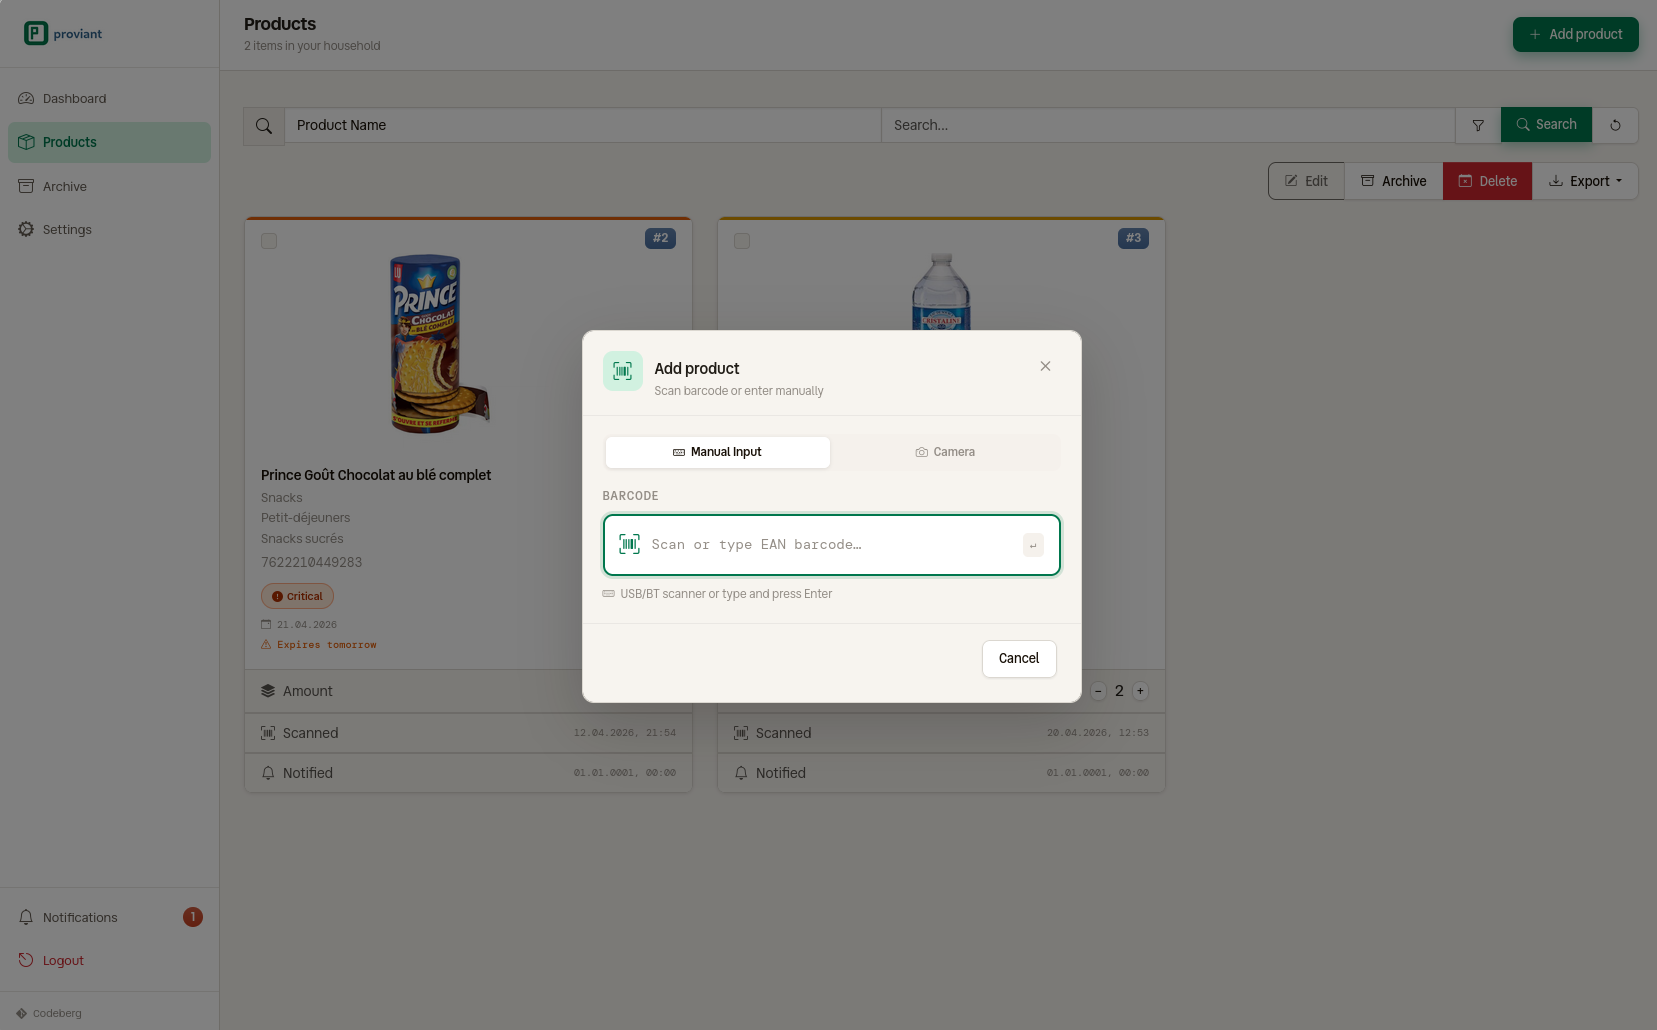
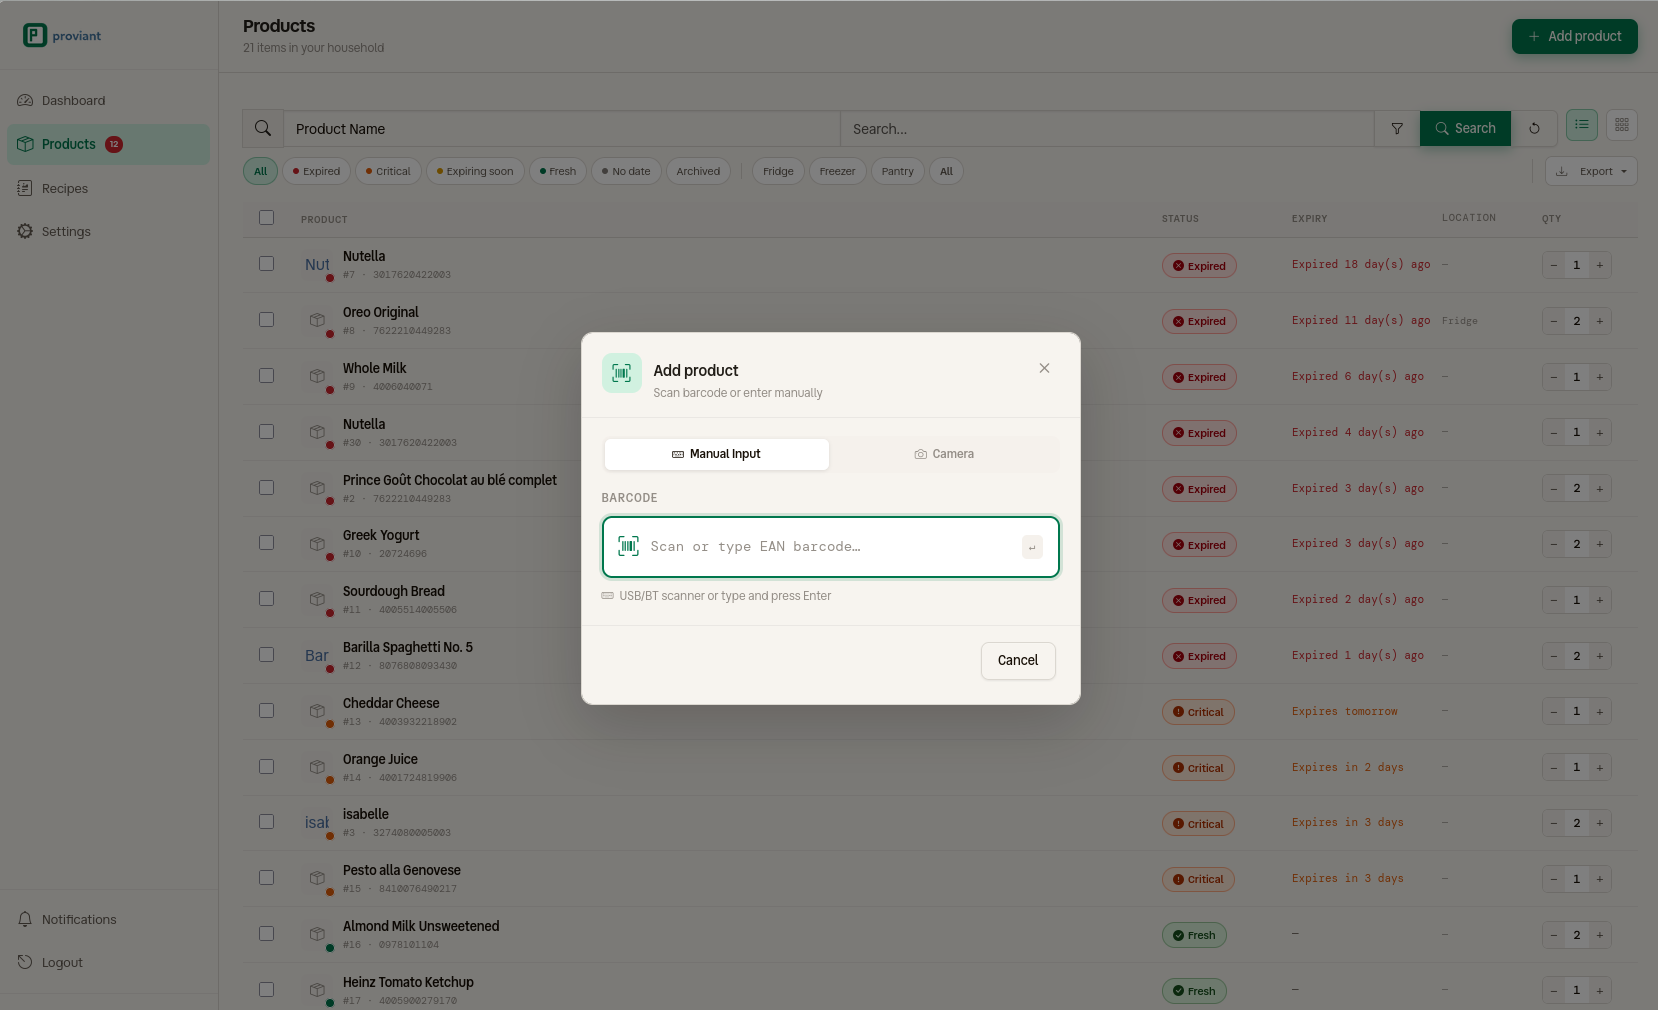
docs: update documentation

diff --git a/README.md b/README.md
@@ -1,4 +1,4 @@
-![Proviant](./res/icons/proviant_hero.png){width=100%}
+![Proviant](./res/icons/proviant_hero.png)
 
 ![Golang version](https://img.shields.io/badge/Go-1.25.9-green)
 ![CI status](https://codeberg.org/isotop7/proviant/badges/workflows/ci.yml/badge.svg)
@@ -14,6 +14,16 @@
 
 📚 **proviant** is a simple and intuitive application to track your bought products and their expiration date to prevent waste of food 🥗
 
+## Preview
+
+**Dashboard** — metric tiles, waste rate donut, category breakdown and expiry trend charts
+
+![Dashboard](./screenshots/portal.png)
+
+**Products** — search, filter and manage your products
+
+![Products](./screenshots/search.png)
+
 ## Features
 
 - 📝 Track and log products with expiration dates.
@@ -28,6 +38,15 @@
 - 🌙 Dark theme.
 - 📥 **Export** — download products and archive data as CSV or JSON.
 - 🍽 **Recipe suggestions** — get recipe ideas based on your products (TheMealDB / Spoonacular).
+
+## Quick Start
+
+```bash
+curl -o docker-compose.yml https://codeberg.org/isotop7/proviant/raw/branch/main/docker-compose.sqlite.yaml
+docker compose up -d
+```
+
+Then open http://localhost:5114
 
 ## Technologies and Tools
 
@@ -56,86 +75,126 @@
 - [External MariaDB database](./docker-compose.mariadb.yaml)
 - [Internal SQLite database](./docker-compose.sqlite.yaml)
 
-The app can be configured with environment variables:
+### Configuration
+
+Configuration is set via environment variables. The complete list of available options and their default values is below. Template configuration files are available in `src/config.yaml.sqlite.tmpl` and `src/config.yaml.mariadb.tmpl`.
+
+#### Server
+
+| Environment Variable | Default | Description |
+|---|---|---|
+| `PROVIANT_SERVER_PORT` | `5114` | Listening port |
+| `PROVIANT_SERVER_BASEURL` | `https://proviant.local.de` | URL of Proviant with protocol (used in emails, notifications) |
+| `PROVIANT_SERVER_AUTHENTICATION_TOKENPASSWORD` | `secret key` | Secret used for JSON Web Tokens |
+| `PROVIANT_SERVER_AUTHENTICATION_TOKENLIFETIME` | `8` | Lifetime of JSON Web Tokens in hours |
+| `PROVIANT_SERVER_AUTHENTICATION_MAXLOGINATTEMPTS` | `3` | Maximum failed login attempts before lockout |
+| `PROVIANT_SERVER_AUTHENTICATION_LOCKOUTDURATIONMINS` | `10` | Lockout duration in minutes after max failed attempts |
+| `PROVIANT_SERVER_AUTHENTICATION_PASSWORDMINLENGTH` | `12` | Minimum password length |
+| `PROVIANT_SERVER_AUTHENTICATION_PASSWORDREQUIREUPPERCASE` | `false` | Require at least one uppercase letter |
+| `PROVIANT_SERVER_AUTHENTICATION_PASSWORDREQUIREDIGIT` | `false` | Require at least one digit |
+| `PROVIANT_SERVER_AUTHENTICATION_PASSWORDREQUIRESPECIAL` | `false` | Require at least one special character |
+| `PROVIANT_SERVER_AUTHENTICATION_PASSWORDCHECKBREACHED` | `true` | Check passwords against HaveIBeenPwned API |
+| `PROVIANT_SERVER_CORS_ALLOWALLORIGINS` | `false` | Allow all origins (`true`) or use `allowedOrigins` list (`false`) |
+| `PROVIANT_SERVER_CORS_ALLOWEDORIGINS` | `http://localhost,http://myproviant.instance` | Comma-separated list of allowed origins when `allowAllOrigins` is `false` |
+| `PROVIANT_SERVER_SECURITYHEADERS_CONTENT_SECURITY_POLICY` | `default-src 'self'; script-src 'self' 'unsafe-inline'; style-src 'self' 'unsafe-inline'; img-src 'self' data: https:;` | Content Security Policy header |
+
+#### Database
+
+| Environment Variable | Default | Description |
+|---|---|---|
+| `PROVIANT_DATABASE_ENGINE` | `sqlite` | Database engine (`sqlite` or `mariadb`) |
+| **SQLite** |||
+| `PROVIANT_DATABASE_SQLITE_FILEPATH` | `data/proviant.db` | Path to SQLite database file (folder must exist) |
+| **MariaDB** |||
+| `PROVIANT_DATABASE_MARIADB_HOST` | `127.0.0.1` | MariaDB server IP or hostname |
+| `PROVIANT_DATABASE_MARIADB_PORT` | `3306` | MariaDB server port |
+| `PROVIANT_DATABASE_MARIADB_NAME` | `proviant` | Database name |
+| `PROVIANT_DATABASE_MARIADB_USER` | `root` (SQLite: `proviant`) | Database user |
+| `PROVIANT_DATABASE_MARIADB_PASSWORD` | `password` | Database user password |
+
+#### Logging
+
+| Environment Variable | Default | Description |
+|---|---|---|
+| `PROVIANT_LOGGING_ENABLED` | `true` | Enable file logging |
+| `PROVIANT_LOGGING_FILE` | `proviant.log` | Path to log file |
+
+#### Notifications
+
+| Environment Variable | Default | Description |
+|---|---|---|
+| `PROVIANT_NOTIFICATION_ENABLED` | `true` | Enable notifications |
+| `PROVIANT_NOTIFICATION_INTERVAL` | `12` | Interval in hours when notifications should be sent |
+| `PROVIANT_NOTIFICATION_SMTP_HOST` | `127.0.0.1` | SMTP server host or IP address |
+| `PROVIANT_NOTIFICATION_SMTP_PORT` | `25` | SMTP server port |
+| `PROVIANT_NOTIFICATION_SMTP_SSL` | `false` | Enable/disable SSL for SMTP |
+| `PROVIANT_NOTIFICATION_SMTP_USER` | `user` | SMTP username |
+| `PROVIANT_NOTIFICATION_SMTP_PASSWORD` | `password` | SMTP password |
+| `PROVIANT_NOTIFICATION_SMTP_FROMADDRESS` | `sender@local.net` | Sender email address for notifications |
+| `PROVIANT_NOTIFICATION_NTFY_URL` | `https://ntfy.sh` | Ntfy server URL |
+| `PROVIANT_NOTIFICATION_NTFY_TOPIC` | `default_topic` | Default Ntfy topic/channel |
+| `PROVIANT_NOTIFICATION_NTFY_TIMEOUT` | `60` | Ntfy message timeout in seconds |
+| `PROVIANT_NOTIFICATION_TELEGRAM_TIMEOUT` | `10` | Telegram API request timeout in seconds |
+| `PROVIANT_NOTIFICATION_MONTHLYWASTEREPORT_DAY` | `1` | Day of month to send monthly waste report (1–28) |
+| `PROVIANT_NOTIFICATION_MONTHLYWASTEREPORT_HOUR` | `8` | UTC hour to send monthly waste report (0–23) |
+
+#### OpenFoodFacts
+
+| Environment Variable | Default | Description |
+|---|---|---|
+| `PROVIANT_OPENFOODFACTS_URL` | `https://world.openfoodfacts.org/api/v2/product` | OpenFoodFacts API URL |
+| `PROVIANT_OPENFOODFACTS_TIMEOUT` | `5` | API request timeout in seconds |
+| `PROVIANT_OPENFOODFACTS_CACHEENABLED` | `true` | Cache API responses in database for offline use |
+| `PROVIANT_OPENFOODFACTS_IMAGECACHEENABLED` | `false` | Cache product images locally |
+| `PROVIANT_OPENFOODFACTS_IMAGECACHEPATH` | `data/images` | Path to image cache directory |
+
+#### OCR (expiry date scanning)
+
+| Environment Variable | Default | Description |
+|---|---|---|
+| `PROVIANT_OCR_ENABLED` | `true` | Enable OCR expiry date scanning |
+| `PROVIANT_OCR_PROVIDER` | `tesseract` | OCR provider: `tesseract` (local), `google`, `openai` |
+| `PROVIANT_OCR_API_KEY` | *(empty)* | API key for cloud providers (Google/OpenAI) |
+| `PROVIANT_OCR_ENDPOINT` | *(empty)* | Custom OCR server endpoint (for local Tesseract HTTP) |
+| `PROVIANT_OCR_TIMEOUT` | `10` | OCR request timeout in seconds |
+| `PROVIANT_OCR_LANGUAGES` | `deu+eng` | Tesseract language codes (e.g., `deu+eng`) |
+
+#### Recipe suggestions
+
+| Environment Variable | Default | Description |
+|---|---|---|
+| `PROVIANT_RECIPE_API_PROVIDER` | `themealdb` | Recipe provider: `themealdb` or `spoonacular` |
+| `PROVIANT_RECIPE_API_URL` | `https://www.themealdb.com/api/json/v1/1` | Recipe API endpoint (base URL, `/search.php` is appended automatically) |
+| `PROVIANT_RECIPE_API_API_KEY` | *(empty)* | API key (required for Spoonacular) |
+| `PROVIANT_RECIPE_API_TIMEOUT` | `10` | Recipe API request timeout in seconds |
+| `PROVIANT_RECIPE_API_CACHEENABLED` | `true` | Cache recipe responses |
+| `PROVIANT_RECIPE_API_CACHETTL` | `24` | Cache TTL in hours |
+
+#### Expiry thresholds
+
+| Environment Variable | Default | Description |
+|---|---|---|
+| `PROVIANT_EXPIRY_CRITICAL_THRESHOLD_DAYS` | `3` | Days before expiry to mark as critical |
+| `PROVIANT_EXPIRY_SOON_THRESHOLD_DAYS` | `7` | Days before expiry to mark as expiring soon |
+
+Additionally, `GIN_MODE` can be set to `debug` to enable Gin's debug mode.
+
+## Upgrade / Migration
+
+### Docker
+
+Pull the latest image and restart:
 
 ```bash
-# Server configuration
-PROVIANT_SERVER_PORT=5050                                                      # Listening port of server
-PROVIANT_SERVER_BASEURL="https://proviant.local.de"                           # URL of Proviant with protocol
-PROVIANT_SERVER_AUTHENTICATION_TOKENPASSWORD="secret key"                       # Secret used for JSON Web Tokens
-PROVIANT_SERVER_AUTHENTICATION_TOKENLIFETIME=8                                # Lifetime of JSON Web Tokens in hours
-PROVIANT_SERVER_AUTHENTICATION_MAXLOGINATTEMPTS=3                             # Maximum failed login attempts before lockout
-PROVIANT_SERVER_AUTHENTICATION_LOCKOUTDURATIONMINS=10                        # Lockout duration in minutes after max failed attempts
-PROVIANT_SERVER_AUTHENTICATION_PASSWORDMINLENGTH=12                           # Minimum password length
-PROVIANT_SERVER_AUTHENTICATION_PASSWORDREQUIREUPPERCASE=false                 # Require at least one uppercase letter
-PROVIANT_SERVER_AUTHENTICATION_PASSWORDREQUIREDIGIT=false                     # Require at least one digit
-PROVIANT_SERVER_AUTHENTICATION_PASSWORDREQUIRESPECIAL=false                   # Require at least one special character
-PROVIANT_SERVER_AUTHENTICATION_PASSWORDCHECKBREACHED=true                      # Check passwords against HaveIBeenPwned API
-PROVIANT_SERVER_CORS_ALLOWALLORIGINS=true                                     # Allow all origins (true) or use allowedOrigins list (false)
-PROVIANT_SERVER_CORS_ALLOWEDORIGINS="http://localhost https://myapi.com"      # List of allowed origins when allowAllOrigins is false
-PROVIANT_SERVER_SECURITYHEADERS_CONTENT_SECURITY_POLICY="default-src 'self'"   # Content Security Policy header
-
-# Database configuration
-## SQLite
-PROVIANT_DATABASE_ENGINE="sqlite"                                            # Database engine (sqlite or mariadb)
-PROVIANT_DATABASE_SQLITE_FILEPATH="data/proviant.db"                         # Path to SQLite database file (folder must exist)
-## MariaDB
-PROVIANT_DATABASE_ENGINE="mariadb"                                          # Database engine (sqlite or mariadb)
-PROVIANT_DATABASE_MARIADB_HOST="127.0.0.1"                                  # MariaDB server IP or hostname
-PROVIANT_DATABASE_MARIADB_PORT=3306                                          # MariaDB server port
-PROVIANT_DATABASE_MARIADB_NAME="proviant"                                    # Database name
-PROVIANT_DATABASE_MARIADB_USER="proviant"                                    # Database user
-PROVIANT_DATABASE_MARIADB_PASSWORD="password"                                # Database user password
-
-# Logging configuration
-PROVIANT_LOGGING_ENABLED=true                                                # Enable file logging
-PROVIANT_LOGGING_FILE="proviant.log"                                         # Path to log file
-
-# Notification configuration
-PROVIANT_NOTIFICATION_ENABLED=true                                            # Enable notifications
-PROVIANT_NOTIFICATION_INTERVAL=12                                            # Interval in hours when notifications should be sent
-PROVIANT_NOTIFICATION_SMTP_HOST="127.0.0.1"                                  # SMTP server host or IP address
-PROVIANT_NOTIFICATION_SMTP_PORT=25                                           # SMTP server port
-PROVIANT_NOTIFICATION_SMTP_SSL=false                                         # Enable/disable SSL for SMTP
-PROVIANT_NOTIFICATION_SMTP_USER="user"                                       # SMTP username
-PROVIANT_NOTIFICATION_SMTP_PASSWORD="password"                                # SMTP password
-PROVIANT_NOTIFICATION_SMTP_FROMADDRESS="sender@local.net"                     # Sender email address for notifications
-PROVIANT_NOTIFICATION_NTFY_URL="https://ntfy.sh"                             # Ntfy server URL
-PROVIANT_NOTIFICATION_NTFY_TOPIC="default_topic"                             # Default Ntfy topic/channel
-PROVIANT_NOTIFICATION_NTFY_TIMEOUT=60                                         # Ntfy message timeout in seconds
-PROVIANT_NOTIFICATION_TELEGRAM_TIMEOUT=10                                    # Telegram API request timeout in seconds
-PROVIANT_NOTIFICATION_MONTHLYWASTEREPORT_DAY=1                               # Day of month to send monthly waste report (1–28)
-PROVIANT_NOTIFICATION_MONTHLYWASTEREPORT_HOUR=8                              # UTC hour to send monthly waste report (0–23)
-
-# OpenFoodFacts configuration
-PROVIANT_OPENFOODFACTS_URL="https://world.openfoodfacts.org/api/v2/product"  # OpenFoodFacts API URL
-PROVIANT_OPENFOODFACTS_TIMEOUT=5                                             # API request timeout in seconds
-PROVIANT_OPENFOODFACTS_CACHEENABLED=true                                     # Cache API responses in database for offline use
-PROVIANT_OPENFOODFACTS_IMAGECACHEENABLED=true                                # Cache product images locally
-PROVIANT_OPENFOODFACTS_IMAGECACHEPATH="./data/imagecache"                   # Path to image cache directory
-
-# OCR configuration (expiry date scanning)
-PROVIANT_OCR_ENABLED=true                                                    # Enable OCR expiry date scanning
-PROVIANT_OCR_PROVIDER="tesseract"                                            # OCR provider: "tesseract" (local), "google", "openai"
-PROVIANT_OCR_API_KEY=""                                                      # API key for cloud providers (Google/OpenAI)
-PROVIANT_OCR_ENDPOINT=""                                                     # Custom OCR server endpoint (for local Tesseract HTTP)
-PROVIANT_OCR_TIMEOUT=15                                                      # OCR request timeout in seconds
-PROVIANT_OCR_LANGUAGES="deu+eng"                                             # Tesseract language codes (e.g., "deu+eng")
-
-# Recipe API configuration (for recipe suggestions)
-PROVIANT_RECIPE_API_PROVIDER="themealdb"                                     # Recipe provider: "themealdb" or "spoonacular"
-PROVIANT_RECIPE_API_URL="https://www.themealdb.com/api/json/v1/1/search.php" # Recipe API endpoint
-PROVIANT_RECIPE_API_API_KEY=""                                                # API key (required for Spoonacular)
-PROVIANT_RECIPE_API_TIMEOUT=10                                               # API request timeout in seconds
-PROVIANT_RECIPE_API_CACHEENABLED=true                                        # Cache recipe responses
-PROVIANT_RECIPE_API_CACHETTL=24                                              # Cache TTL in hours
+docker compose pull
+docker compose up -d
 ```
 
-Additionally `Gin` supports a debug mode, which also can be set with a environment variable:
+Database migrations run automatically on startup. See the [CHANGELOG](./CHANGELOG.md) for breaking changes that may require manual intervention.
 
-```bash
-GIN_MODE=debug
-```
+### Manual / binary
+
+Replace the `proviant` binary with the new version and restart the service. Migrations are applied automatically on startup. Check the [CHANGELOG](./CHANGELOG.md) for any breaking changes or additional steps.
 
 ## Commit Conventions
 
@@ -212,6 +271,21 @@ Documentation is generated with `gomarkdoc` and `swagger`:
   <tr>
     <td><img src="./screenshots/search.png" alt="Search desktop"></td>
     <td><img src="./screenshots/search_mobile.png" alt="Search mobile"></td>
+  </tr>
+</table>
+
+---
+
+**Recipe** — Get recipes for expiring products
+
+<table>
+  <tr>
+    <th>Desktop</th>
+    <th>Mobile</th>
+  </tr>
+  <tr>
+    <td><img src="./screenshots/recipe.png" alt="Search desktop"></td>
+    <td><img src="./screenshots/recipe_mobile.png" alt="Search mobile"></td>
   </tr>
 </table>
 
